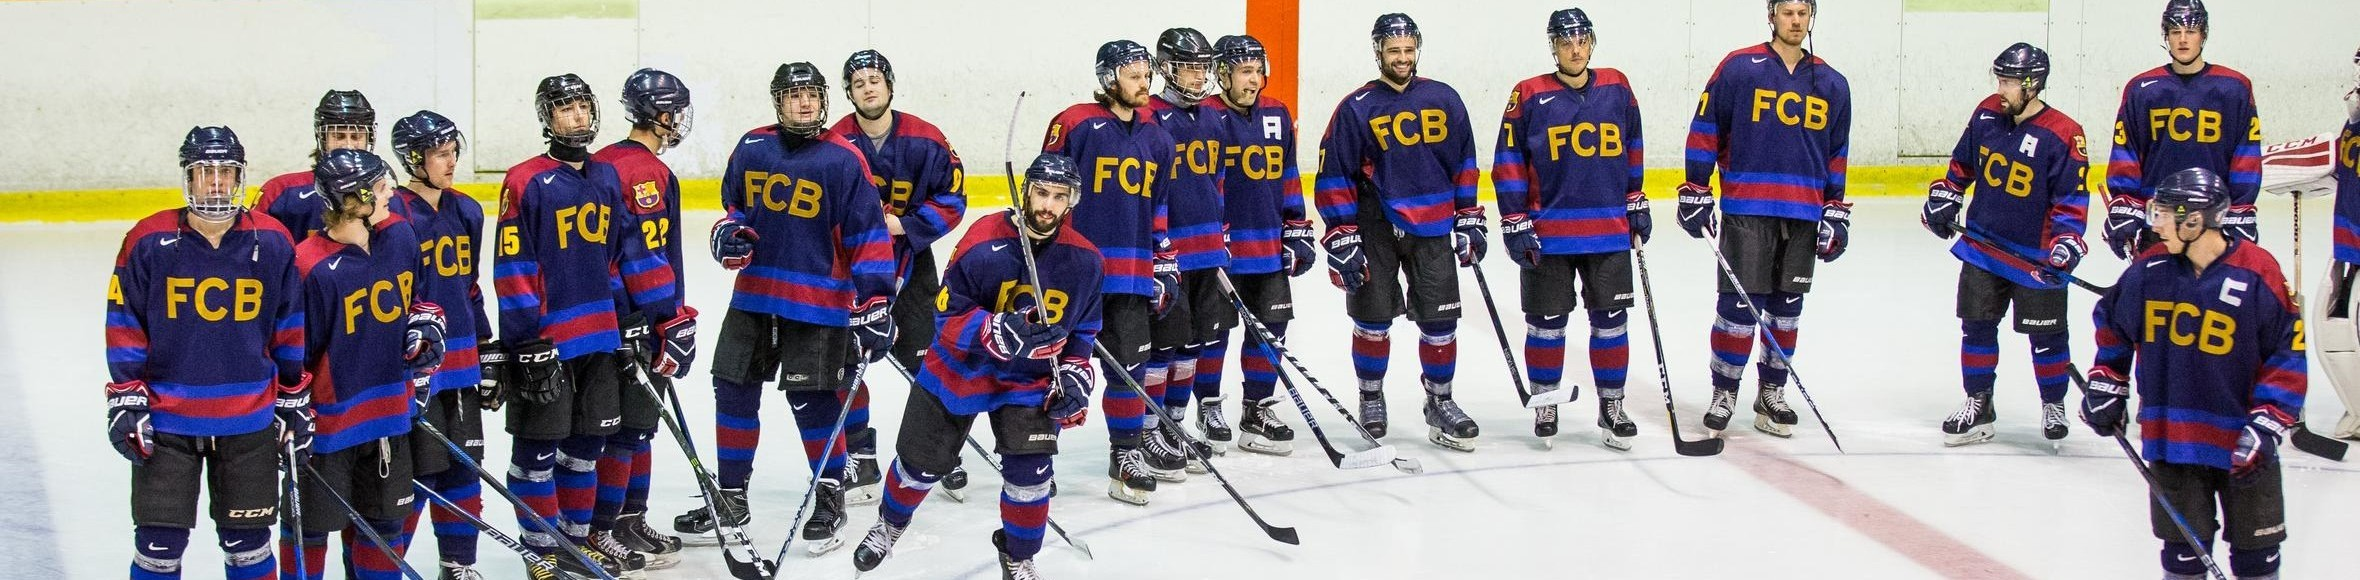
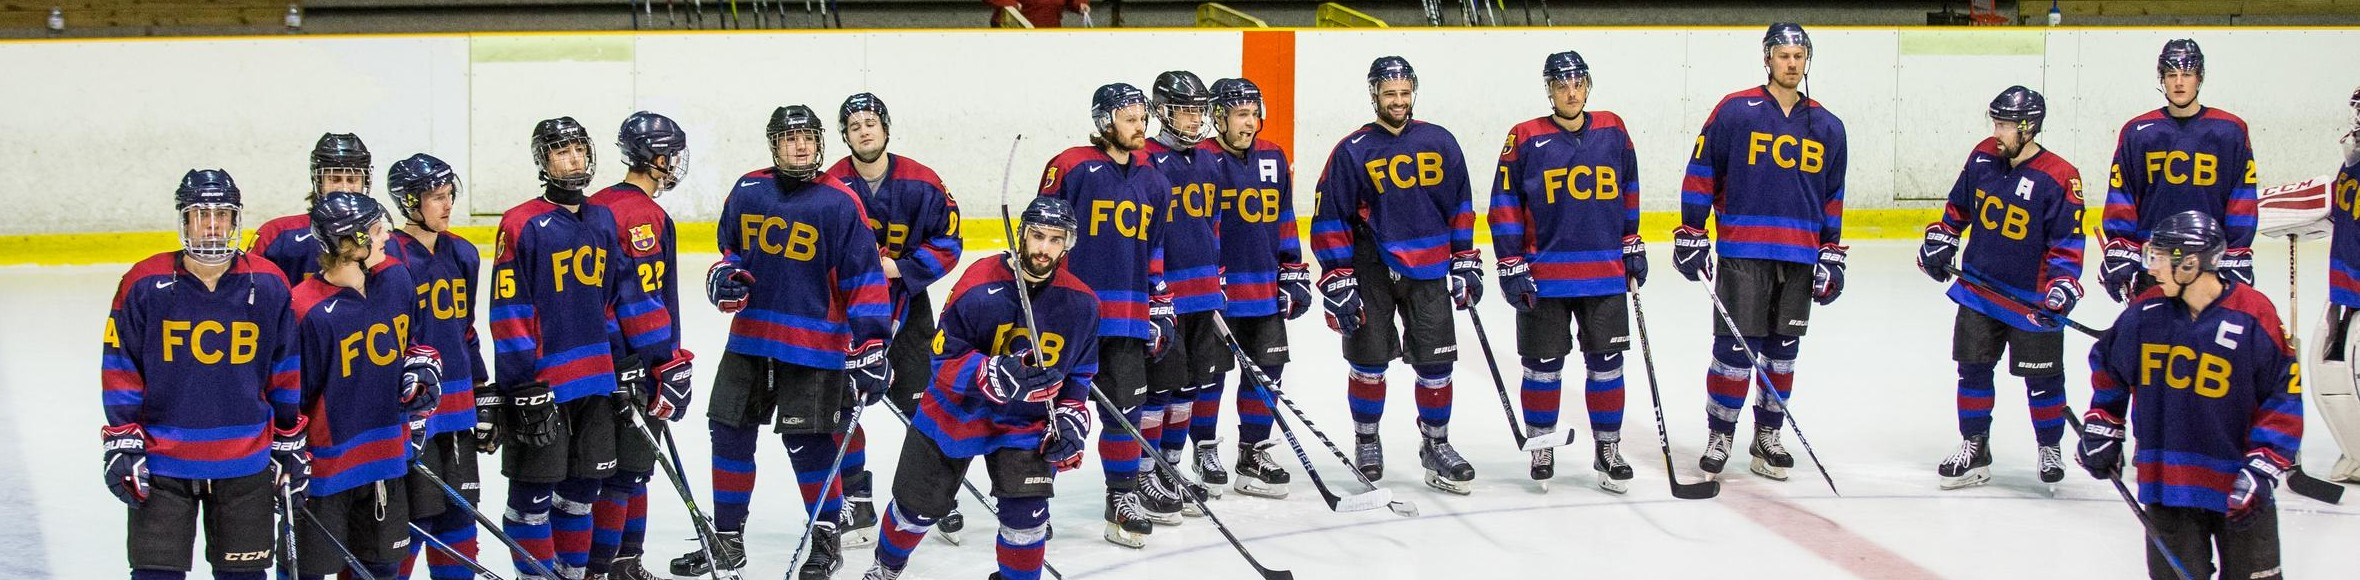
finished

diff --git a/curiosidades.html b/curiosidades.html
@@ -14,6 +14,21 @@
     <main class="mainDiv" style="padding-top: 0;">
       <section>
         <h1 class="headerText" id="curio">Curiosidades do Hóquei</h1>
+        <aside class="sideNav question start">
+          <h2>Índice</h2>
+          <div>
+            <button class="linkButton" onclick="smoothScroll('disco')">Disco</button>
+          </div>
+          <div>
+            <button class="linkButton" onclick="smoothScroll('regras')">Regras</button>
+          </div>
+          <div>
+            <button class="linkButton" onclick="smoothScroll('campeonatos')">Campeonatos</button>
+          </div>
+          <div>
+            <button class="linkButton" onclick="smoothScroll('perigos')">Perigos</button>
+          </div>
+        </aside>
         <article class="articleText">
           <h2 class="headerText" id="disco">Disco Puck</h2>
           Os primeiros jogos utilizavam esterco de vaca congelado como disco, isso remonta às raízes culturais do jogo. Por razões compreensíveis, os atletas modernos preferem o disco de borracha vulcanizada que todos conhecemos hoje, que são mantidos congelados até o início do jogo, por serem feitos de borracha eles ficam flexíveis quando em temperatura ambiente, dificultando o controle dos jogadores.
@@ -74,8 +89,8 @@
           Como se trata de um esporte muito ágil e com bastante embate corporal entre as equipes, os atletas precisam se proteger com vestimentas apropriadas. No início do esporte, as vestes eram apenas uma blusa de lã com gola rolê, botas com lâminas (para permitir o deslize sobre a superfície congelada), e tacos pesados de madeira. Essas vestes também passaram por um processo evolutivo bastante importante: atualmente, utilizam-se materiais de proteção ao corpo de altíssima tecnologia, para impedir pancadas graves.
         </article>
       </section>
-
     </main>
+    <script src="./script/scroll.js"></script>
     <script src="./script/footer.js" id="footerScript"></script>
   </body>
 </html>

diff --git a/historia.html b/historia.html
@@ -18,13 +18,13 @@
         <aside class="sideNav question start">
           <h2>Índice</h2>
           <div>
-            <a href="#comeco" class="linkButton">Começo</a>
+            <button class="linkButton" onclick="smoothScroll('comeco')">Começo</button>
           </div>
           <div>
-            <a href="#origens" class="linkButton">Origens</a>
+            <button class="linkButton" onclick="smoothScroll('origens')">Origens</button>
           </div>
           <div>
-            <a href="#olimpiadas" class="linkButton">Olimpíadas</a>
+            <button class="linkButton" onclick="smoothScroll('olimpiadas')">Olimpíadas</button>
           </div>
         </aside>
         <article class="articleText">
@@ -40,11 +40,12 @@
         </article>
         <article class="articleText">
           <h2 class="headerText" id="olimpiadas">Hóquei nas Olimpíadas</h2>
-          <img src="./assets/Olimpiadas.JPG" alt="abertura olimpiadas inverno 2022" class="bodyImage">
             O hóquei no gelo começou a ser disputado nos Jogos Olímpicos na edição de Verão de 1920, em Antuérpia. Com a criação dos Jogos Olímpicos de Inverno, deixou de ser disputado em edições de verão, sendo disputado até hoje junto com as outras modalidades olímpicas de inverno. 
+          <img src="./assets/Olimpiadas.JPG" alt="abertura olimpiadas inverno 2022" class="bodyImage">
         </article>
       </section>
     </main>
+    <script src="./script/scroll.js"></script>
     <script src="./script/footer.js" id="footerScript"></script>
   </body>
 </html>

diff --git a/index.html b/index.html
@@ -10,10 +10,18 @@
   </head>
   <body>
     <script src="./script/navbar.js" id="navScript"></script>
-    <main class="mainDiv">
+    <img src="./assets/index.jpg" class="wideImage" alt="jogadores de hoquei">
+    <main class="mainDiv" style="padding-top: 0;">
+      <section>
+        <h1 class="headerText">Objetivos</h1>
+        <article class="articleText">
+          Nosso objetivo com este trabalho foi aprender sobre codificação de site HTML e CSS e demonstrar tais aprendizados fazendo um site repleto de funcionalidades encontradas em diversos sites profissionais utilizados por todo tipo de empresas, organizações e frameworks como CNN, Wikipedia, Bootstrap e outros. 
+        </article>
+      </section>
       <section>
         <h1 class="headerText">Por que Hóquei?</h1>
         <article class="articleText">
+          O Hóquei é um esporte pouco conhecido no Brasil, o que mostrou-se uma oportunidade interessante de aprendizado sobre a história, regras e acontecimentos desse esporte, permitindo assim que pudéssemos mostrar algo potencialmente novo.
         </article>
       </section>
     </main>

diff --git a/index.css b/index.css
@@ -4,7 +4,7 @@
 
 
 /*
-TODO: Correct index highlight
+TODO: Better Scroll
 */
 
 :root {
@@ -272,7 +272,14 @@ body {
 
 .linkButton {
     font-family: "Noto Sans";
+    border: none;
     color: black;
+    
+    margin-top: 0.2rem;
+
+    text-decoration: underline;
+    text-decoration-color: var(--blue);
+    text-decoration-thickness: 2px;
 }
 
 .linkButton:link, .linkButton:visited, .linkButton:active {
@@ -282,7 +289,6 @@ body {
 
 .linkButton:hover {
     cursor: pointer;
-    text-decoration: solid;
     background-color: var(--blue);
     transition: background-color 0.3s;
 }
@@ -309,7 +315,7 @@ body {
     }
 }
 
-@media (max-width:450px) {
+@media (max-width:470px) {
     .mainDiv {
         margin: 0 5%;
         margin-bottom: 1.5rem;

diff --git a/script/footer.js b/script/footer.js
@@ -10,7 +10,7 @@ document.write(`
         <div class="footerIcon">
             <a href="http://www.unirio.br/" target="second" class="footerText">Unirio</a>
             <a href="https://bsi.uniriotec.br/" target="second" class="footerText">BSI-Unirio</a>
-            <a href="" target="second" class="footerText">Repo</a>
+            <a href="https://www.gov.br/mec/pt-br" target="second" class="footerText">Mec</a>
         </div>
     </div>
 </footer>

diff --git a/script/scroll.js b/script/scroll.js
@@ -1,0 +1,3 @@
+function smoothScroll(id) {
+    document.getElementById(id).scrollIntoView({block: "center", inline: "center", behavior: "smooth"});
+}
